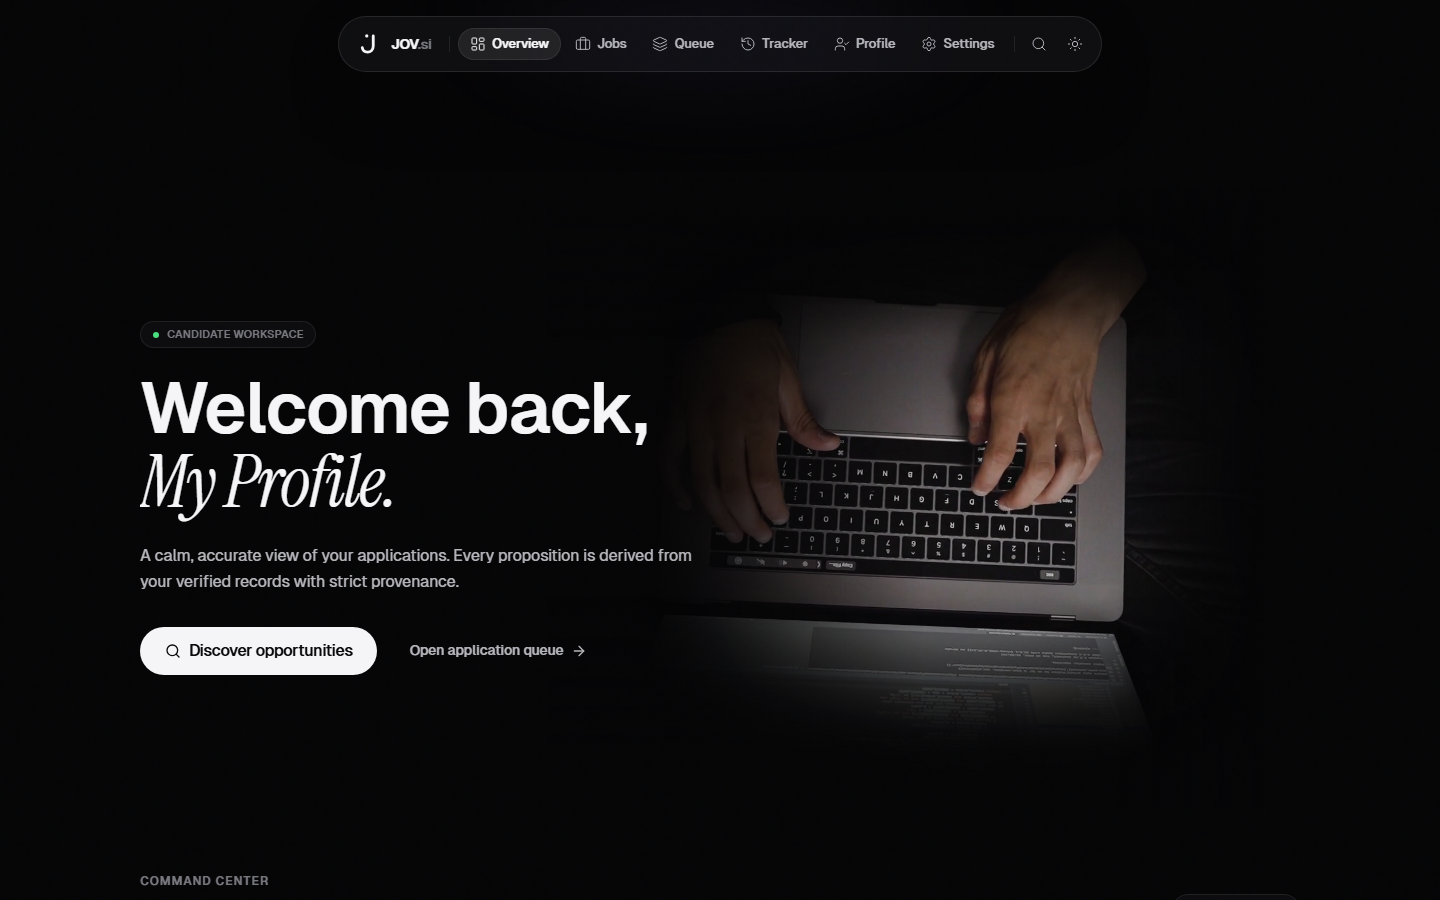
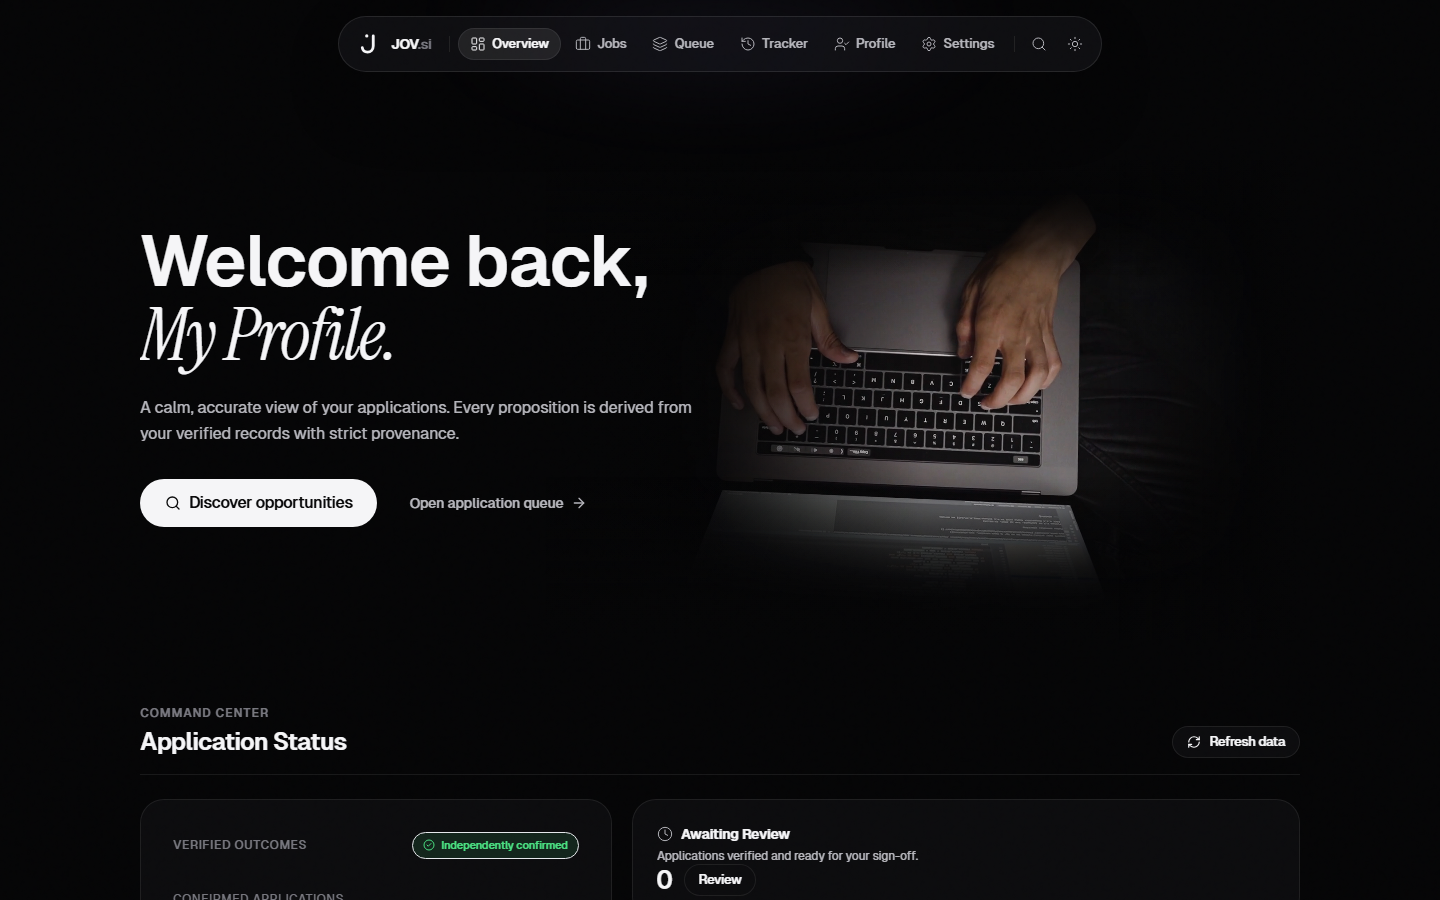
fix(ui): remove gimmicky status pill and eliminate excess top whitespace

diff --git a/web/src/screens/OverviewScreen.tsx b/web/src/screens/OverviewScreen.tsx
@@ -61,7 +61,7 @@ export const OverviewScreen: React.FC<OverviewScreenProps> = ({ onNavigate }) =>
       </div>
 
       {/* Hero Section — Unboxed Asymmetric Cinematic Composition */}
-      <section className="relative w-full overflow-hidden min-h-[520px] sm:min-h-[580px] lg:min-h-[620px] flex items-center py-10 sm:py-14 lg:py-16">
+      <section className="relative w-full overflow-hidden pt-2 sm:pt-4 pb-12 sm:pb-16 min-h-[440px] lg:min-h-[480px] flex items-center">
         {/* Absolute Composited Hero Video Layer */}
         <div
           className="hero-video-layer absolute inset-y-0 right-0 w-full sm:w-[85%] md:w-[74%] lg:w-[65%] max-w-[1100px] h-full pointer-events-none select-none z-0"
@@ -72,11 +72,6 @@ export const OverviewScreen: React.FC<OverviewScreenProps> = ({ onNavigate }) =>
 
         {/* Left Hero Typographic Content & Primary Actions */}
         <div className="relative z-10 max-w-xl lg:max-w-2xl space-y-6">
-          <div className="inline-flex items-center gap-2 px-3 py-1 rounded-full border border-border bg-bg-elev-1 text-[11px] font-medium tracking-wide uppercase text-text-3 shadow-sm">
-            <span className="w-1.5 h-1.5 rounded-full bg-ok" />
-            <span>{hasResume ? 'Candidate Workspace' : 'Scattered → Clarity'}</span>
-          </div>
-
           <div className="overflow-visible pr-2">
             {hasResume ? (
               <h1 className="text-[clamp(2.5rem,5.5vw,4.5rem)] font-semibold tracking-tight leading-[1.02] text-text">

diff --git a/web/src/index.css b/web/src/index.css
@@ -52,18 +52,18 @@ button, input, select, textarea {
   .screen-page {
     max-width: 1240px;
     margin: 0 auto;
-    padding: 24px 20px 80px;
+    padding: 8px 20px 80px;
   }
 
   @media (min-width: 640px) {
     .screen-page {
-      padding: 36px 32px 96px;
+      padding: 12px 32px 96px;
     }
   }
 
   @media (min-width: 1024px) {
     .screen-page {
-      padding: 44px 40px 100px;
+      padding: 16px 40px 100px;
     }
   }
 
